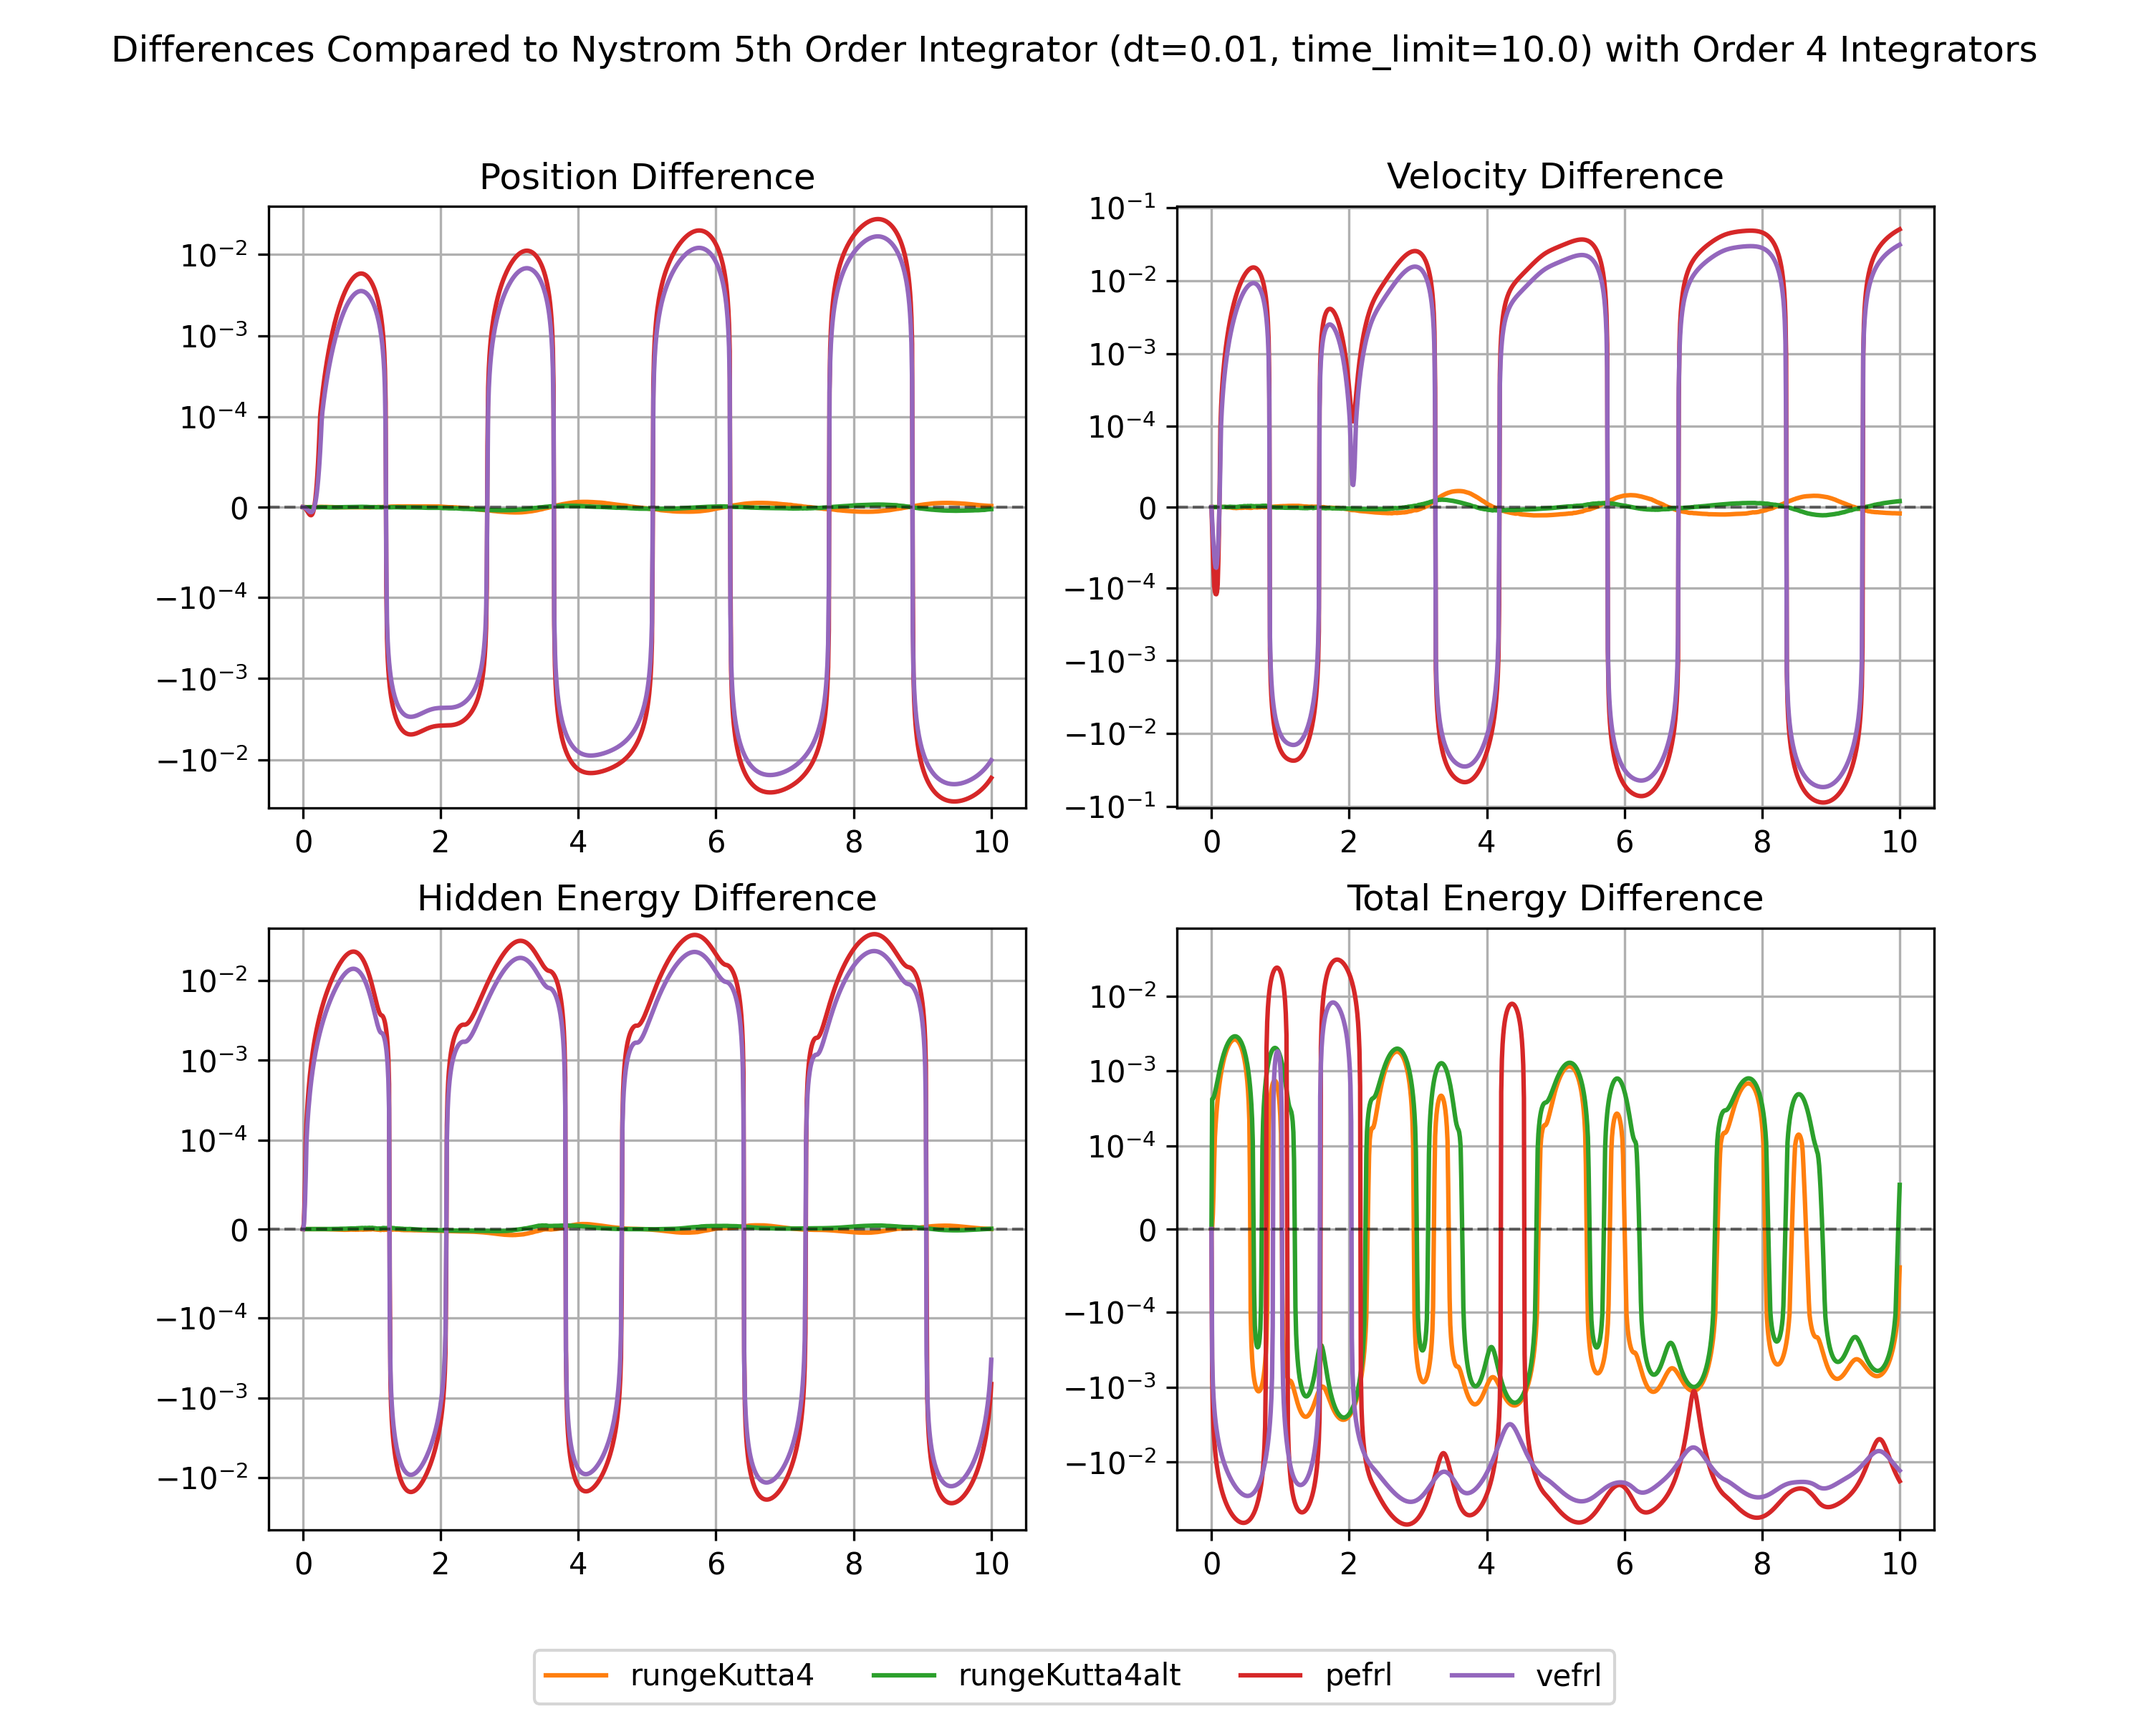
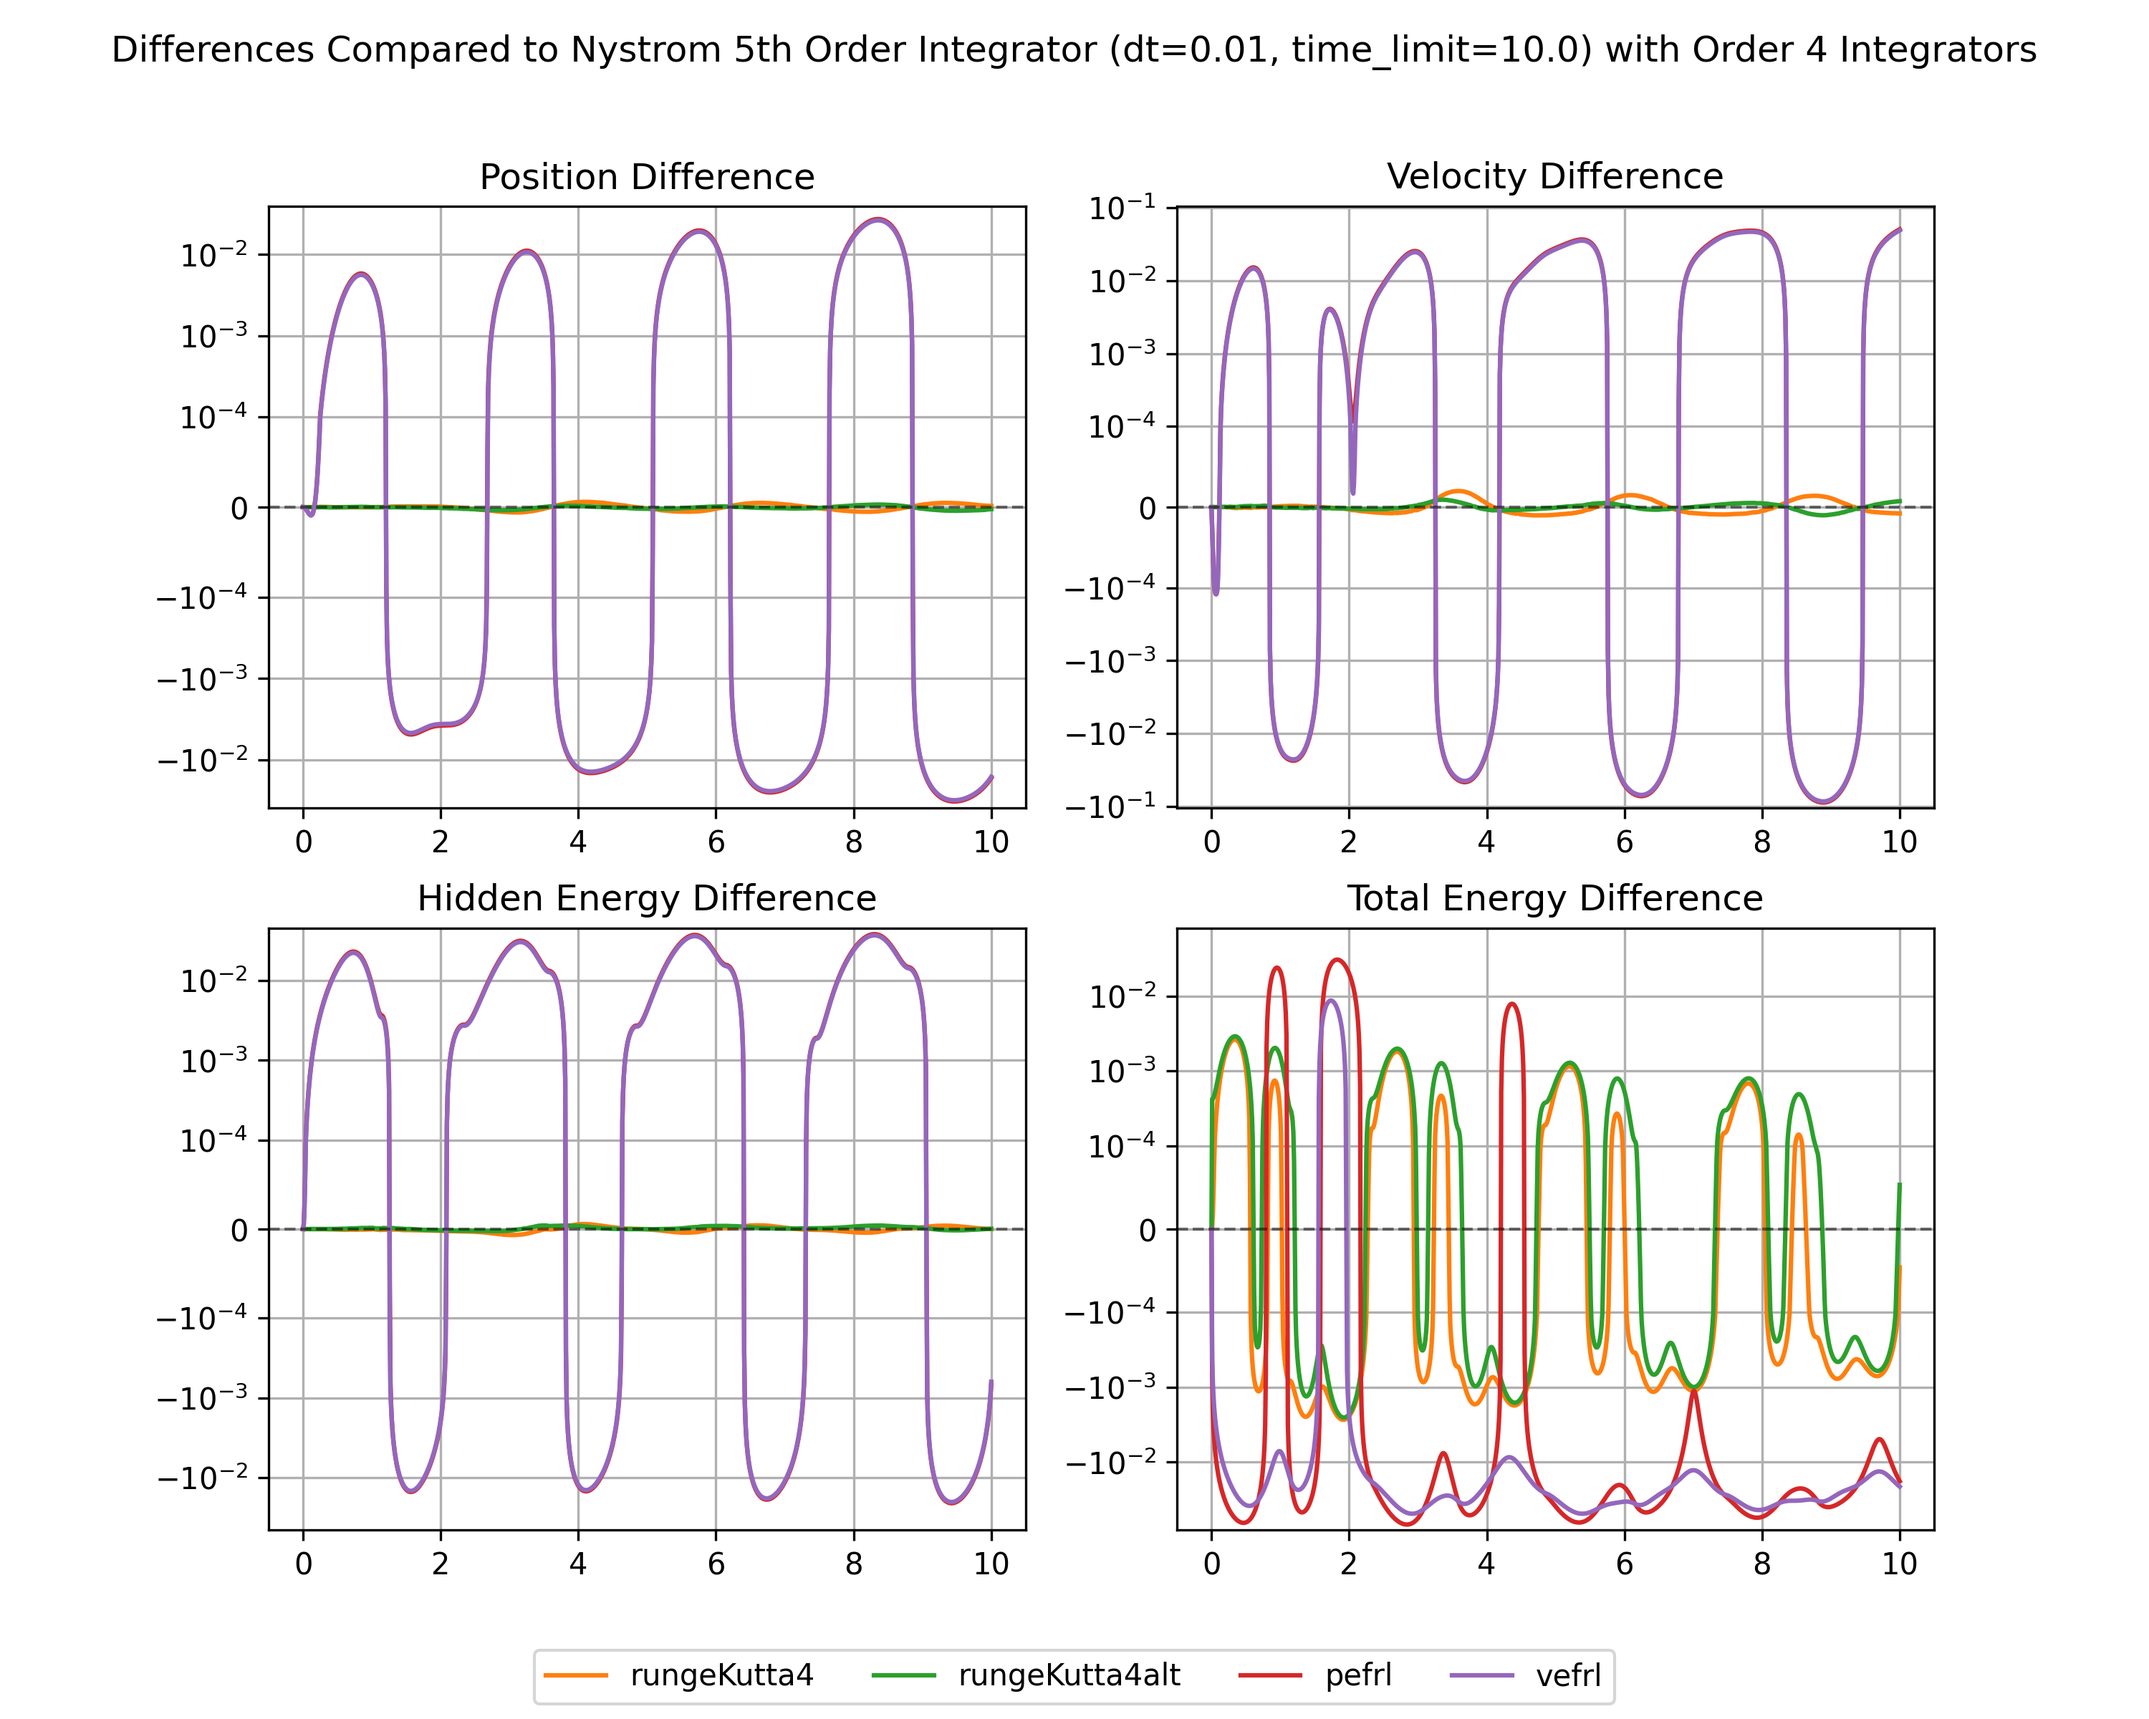
update EFLR coefficients

diff --git a/src/integrators/ruth.py b/src/integrators/ruth.py
@@ -72,23 +72,15 @@ def PEFRL(state, dt, f, *args, **kwargs):
             finalizeSystem(finalState, state, dt, rs, ks, [], *args, **kwargs)
     return IntegrationResult(state=finalState, stages=[StageResult(aux=r, update=k) for r, k in zip(rs, ks)])
     
-    # r4 = r3 + chi * dt * v3
-    
-    # finalVelocity = v3 + (1 - 2 * lamda) * dt / 2 * k3.velocity
-    # finalPosition = r4 + xi * dt * finalVelocity
-    # finalEnergy = e3 + (1 - 2 * lamda) * dt / 2 * k3.energy if hasattr(k3, 'energy') else e3
-    
-    # return state._replace(
-    #     position = finalPosition,
-    #     velocity = finalVelocity,
-    #     energy = finalEnergy,
-    #     t = state.t + dt
-    # )
 def VEFRL(state, dt, f, *args, **kwargs):
     with record_function("[Integration] VEFRL"):
-        lamda = -0.2123418310626054
-        xi = +0.1786178958448091
-        chi = -0.06626458266981849
+        # lamda = -0.2094333910398989e-01
+        # xi = +0.1644986515575760e+00
+        # chi = +0.1235692651138917e+01
+
+        xi = +0.1720865590295143e+00
+        lamda = -0.9156203075515678e-01
+        chi = -0.1616217622107222e+00
         with record_function("[Integration] VEFRL: Step 1"):
             preprocessSystem(state, state, xi * dt, *args, **kwargs)
             k0, r0 = split_return(f(state, xi * dt, *args, **kwargs))
@@ -96,7 +88,7 @@ def VEFRL(state, dt, f, *args, **kwargs):
             state1 = copy.deepcopy(state)
             applyVelocityUpdate(state1, k0, explicit_step(xi * dt))
             applyQuantityUpdate(state1, k0, explicit_step(xi * dt))
-            applyPositionUpdate(state1, k0, semi_implicit_position_step((1 - 2 * lamda) * dt / 2))
+            applyPositionUpdate(state1, [], semi_implicit_position_step((1 - 2 * lamda) * dt / 2))
 
         with record_function("[Integration] VEFRL: Step 2"):
             preprocessSystem(state1, state, chi * dt, *args, **kwargs)
@@ -105,7 +97,7 @@ def VEFRL(state, dt, f, *args, **kwargs):
             state2 = copy.deepcopy(state1)
             applyVelocityUpdate(state2, k1, explicit_step(chi * dt))
             applyQuantityUpdate(state2, k1, explicit_step(chi * dt))
-            applyPositionUpdate(state2, k1, semi_implicit_position_step(lamda * dt))
+            applyPositionUpdate(state2, [], semi_implicit_position_step(lamda * dt))
 
         with record_function("[Integration] VEFRL: Step 3"):
             preprocessSystem(state2, state, (1 - 2 * (chi + xi)) * dt, *args, **kwargs)
@@ -114,7 +106,7 @@ def VEFRL(state, dt, f, *args, **kwargs):
             state3 = copy.deepcopy(state2)
             applyVelocityUpdate(state3, k2, explicit_step((1 - 2 * (chi + xi)) * dt))
             applyQuantityUpdate(state3, k2, explicit_step((1 - 2 * (chi + xi)) * dt))
-            applyPositionUpdate(state3, k2, semi_implicit_position_step(lamda * dt))
+            applyPositionUpdate(state3, [], semi_implicit_position_step(lamda * dt))
 
         with record_function("[Integration] VEFRL: Step 4"):
             preprocessSystem(state3, state, chi * dt, *args, **kwargs)
@@ -123,7 +115,7 @@ def VEFRL(state, dt, f, *args, **kwargs):
             state4 = copy.deepcopy(state3)
             applyVelocityUpdate(state4, k3, explicit_step(chi * dt))
             applyQuantityUpdate(state4, k3, explicit_step(chi * dt))
-            applyPositionUpdate(state4, k3, semi_implicit_position_step((1 - 2 * lamda) * dt / 2))
+            applyPositionUpdate(state4, [], semi_implicit_position_step((1 - 2 * lamda) * dt / 2))
 
         with record_function("[Integration] VEFRL: Step 5"):
             preprocessSystem(state4, state, xi * dt, *args, **kwargs)
@@ -138,15 +130,3 @@ def VEFRL(state, dt, f, *args, **kwargs):
             ks = [k0, k1, k2, k3, k4]
             finalizeSystem(finalState, state, dt, rs, ks, [], *args, **kwargs)
     return IntegrationResult(state=finalState, stages=[StageResult(aux=r, update=k) for r, k in zip(rs, ks)])
-    
-    
-    # finalVelocity = v4 + xi * dt * k4.velocity
-    # finalPosition = r4
-    # finalEnergy = e4 + xi * dt * k4.energy if hasattr(k4, 'energy') else e4
-    
-    # return state._replace(
-    #     position = finalPosition,
-    #     velocity = finalVelocity,
-    #     energy = finalEnergy,
-    #     t = state.t + dt
-    # )
